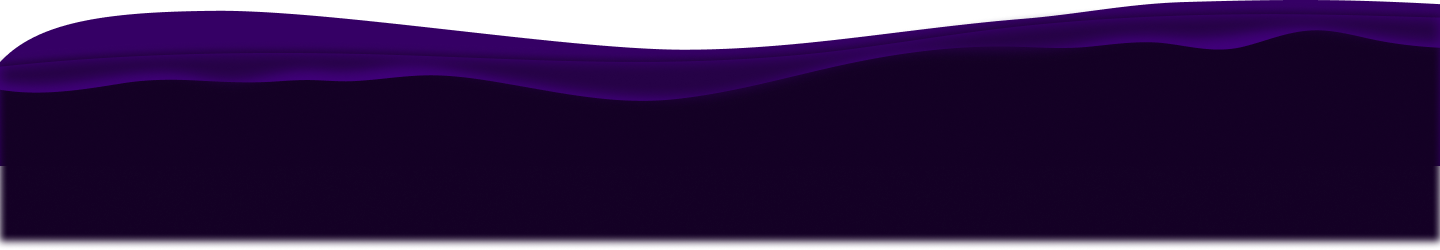
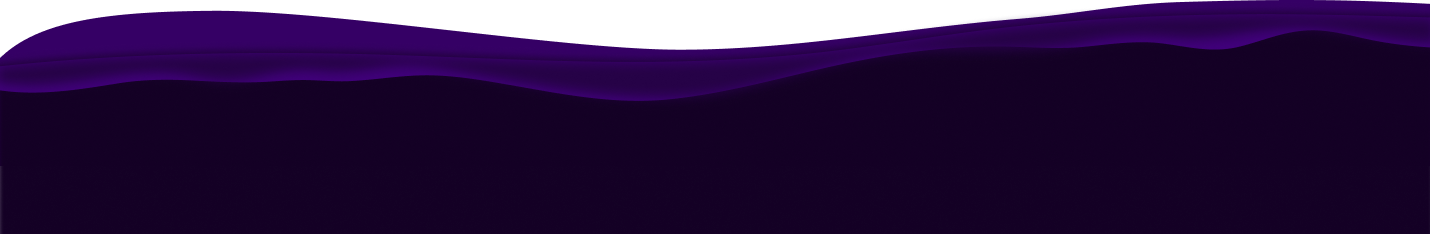
final fixes

diff --git a/src/pages/index.tsx b/src/pages/index.tsx
@@ -97,10 +97,11 @@ const Home: NextPage = () => {
                         </section>
                     </Container>
                     <img
-                        className="absolute bottom-0 translate-y-1/2 w-full left-1/2 -translate-x-1/2 z-[4] max-h-[240px]"
+                        className="absolute md:bottom-[10px] bottom-[20px] z-[4] translate-y-1/2 w-full left-1/2 -translate-x-1/2 max-h-[240px]"
                         src="/background/hero-bottom.png"
                         alt="bg"
                     />
+
                     {/* <img
                         className="block md:hidden absolute left-[30px] top-[460px] z-[4] max-w-[100px]"
                         src="/background/pony-left.png"
@@ -136,7 +137,9 @@ const Home: NextPage = () => {
                     </div>
                 </div>
 
-                <div className="bg-gradient-to-b from-[#140025] to-[#0A0012] h-14"></div>
+                <div className="bg-gradient-to-b from-[#140025] to-[#0A0012] h-14 relative">
+                    <div className="absolute bg-[#140025] -top-[5px] z-[900] w-full h-[10px]"></div>
+                </div>
 
                 <section className="relative">
                     <Container className="!max-w-full !p-0">
